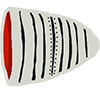
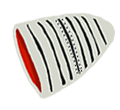
ajout autres parties

diff --git a/part10.html b/part10.html
@@ -74,6 +74,7 @@ function preload ()
     this.load.image('avant_vaisseau', 'assets/avant_vaisseau.png');
     this.load.image('milieu_vaisseau', 'assets/milieu_vaisseau.png');
     this.load.image('queue_vaisseau', 'assets/queue_vaisseau.png');
+    this.load.image('petite_queue_vaisseau', 'assets/petite_queue_vaisseau.png');
     this.load.image('barre_de_vie_3hp', 'assets/barre_de_vie_3hp.png');
     this.load.image('barre_de_vie_2hp', 'assets/barre_de_vie_2hp.png');
     this.load.image('barre_de_vie_1hp', 'assets/barre_de_vie_1hp.png');
@@ -185,6 +186,17 @@ function create ()
         setXY: {x: 100, y: 50}
     });
     
+    milieu_vaisseau = this.physics.add.group({
+        key : 'milieu_vaisseau',
+        repeat : 0,
+        setXY: {x: 3700, y: 200}
+    });
+    
+    queue_vaisseau = this.physics.add.group({
+        key : 'queue_vaisseau',
+        repeat : 0,
+        setXY: {x: 5600, y: 2900}
+    });
     
     //  The score
     scoreText = this.add.text(16, 16, 'score: 0', { fontSize: '32px', fill: '#000' });
@@ -197,6 +209,8 @@ function create ()
     this.physics.add.collider(heal, platforms);
     this.physics.add.collider(reacteur, platforms);
     this.physics.add.collider(avant_vaisseau, platforms);
+    this.physics.add.collider(milieu_vaisseau, platforms);
+    this.physics.add.collider(queue_vaisseau, platforms);
     
     //  Checks to see if the player overlaps with any of the stars, if he does call the collectStar function
     this.physics.add.overlap(player, stars, collectStar, null, this);
@@ -210,6 +224,10 @@ function create ()
     this.physics.add.overlap(player, reacteur, collectReacteur, null, this);
     
     this.physics.add.overlap(player, avant_vaisseau, collectAvantVaisseau, null, this);
+    
+    this.physics.add.overlap(player, milieu_vaisseau, collectMilieuVaisseau, null, this);
+    
+    this.physics.add.overlap(player, queue_vaisseau, collectQueueVaisseau, null, this);
     
     this.cameras.main.setBounds(0, 0, 5760, 3283)
     this.cameras.main.setSize(1920, 1080);
@@ -345,13 +363,25 @@ function collectStar (player, star)
 function collectReacteur(player, reacteur){
     reacteur.disableBody(true, true);
     
-    this.add.image(60, 50, 'petit_reacteur').setScrollFactor(0);
+    this.add.image(100, 100, 'petit_reacteur').setScrollFactor(0);
 }
     
 function collectAvantVaisseau(player, avant_vaisseau){
     avant_vaisseau.disableBody(true, true);
     
-    this.add.image(1000, 50, 'avant_vaisseau').setScrollFactor(0);
+    this.add.image(600, 50, 'avant_vaisseau').setScrollFactor(0);
+}
+ 
+function collectMilieuVaisseau(player, milieu_vaisseau){
+    milieu_vaisseau.disableBody(true, true);
+    
+    this.add.image(400, 100, 'milieu_vaisseau').setScrollFactor(0);
+}
+
+function collectQueueVaisseau(player, queue_vaisseau){
+    queue_vaisseau.disableBody(true, true);
+    
+    this.add.image(200, 75, 'petite_queue_vaisseau').setScrollFactor(0);
 }
     
 function collectHeal (player, heal)
@@ -368,6 +398,7 @@ function collectHeal (player, heal)
     }
 
 };
+
 
 function hitBomb (player, bombs)
 {
